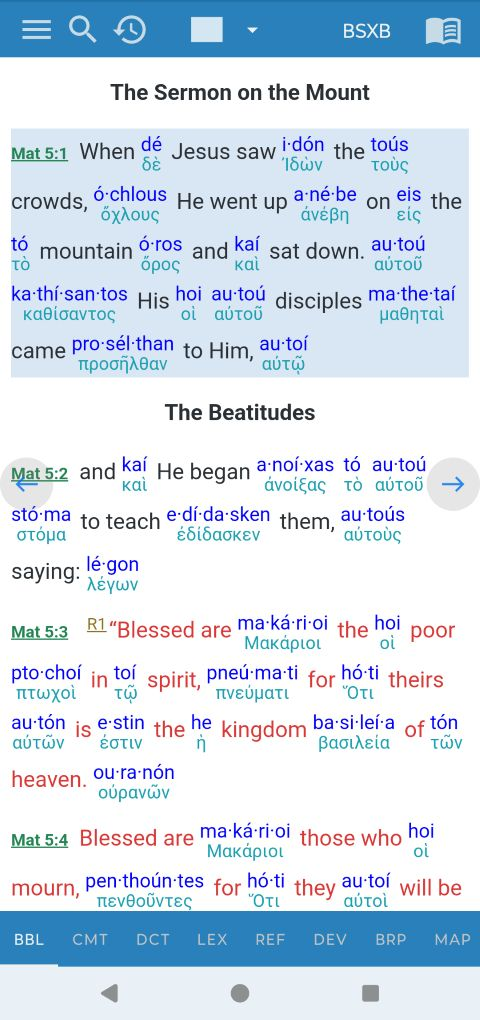
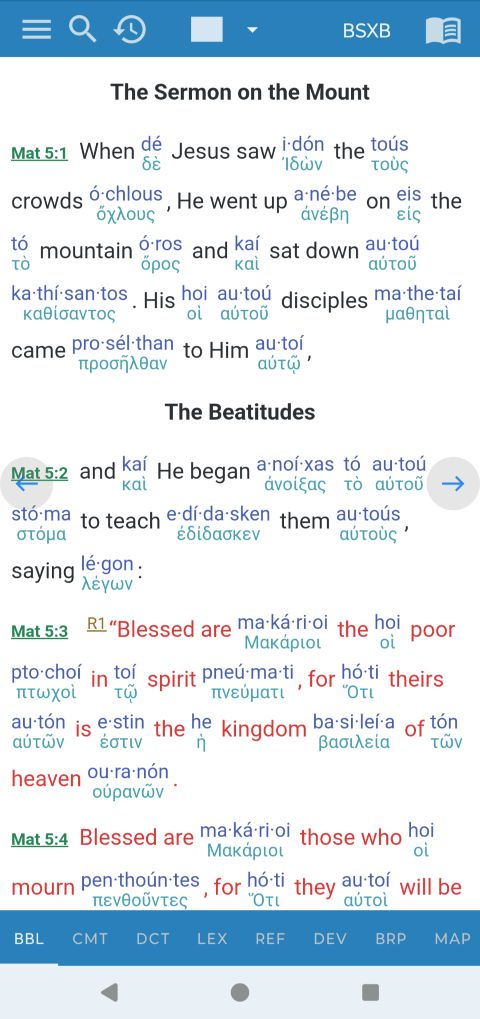
- Update screenshots - Add section on reading plan

diff --git a/docs/INSTALL.md b/docs/INSTALL.md
@@ -13,22 +13,22 @@ It is available for two Bible apps:
 
 **Berean Standard Transliterated Bible (`BSTB`)** — transliteration appears as a superscript after the English word. Tapping the transliterations will open the dictionary entry in whichever lexicon module you have configured.
 
-<img src="assets/bstb_nt_mysword.jpg" width="480" alt="BSTB on MySword"/>
+<img src="assets/bstb_nt_mysword.jpg" width="360" alt="BSTB on MySword"/>
 
 **Berean Standard Translinear Bible  (`BSXB`)** — transliteration and original Hebrew, Aramaic or Greek are stacked vertically beside the English word. The transliterations are links to the lexicon.
 
-<img src="assets/bsxb_ot_mysword.jpg" width="480" alt="BSXB on MySword"/>
+<img src="assets/bsxb_ot_mysword.jpg" width="360" alt="BSXB on MySword"/>
 
 **Berean Standard Reverse Interlinear Bible  (`BSRB`)** - full reverse (English -> Hebrew and Greek) interlinear with original Hebrew, Aramaic and Greek, academic transliteration, Strong's numbers and morphology codes. Tapping the Strong's number will open the word
 in the lexicon. Tapping the morphology code will open the definition in the _Robinson's Morphology Analysis Codes_ dictionary if the RMAC module is installed. 
 
-<img src="assets/bsrb_ot_esword.jpg" width="480"  alt="BSRB on e-Sword"/>
+<img src="assets/bsrb_ot_esword.jpg" width="360"  alt="BSRB on e-Sword"/>
 
 
 ## MySword (Android)
 
 The MySword application has more features and is more polished and configurable than e-Sword. However, it is only available for Android and cannot be installed from the Play Store, which makes it a bit more complicated to install.
-The application is free, but requires a $25 "donation" to unlock all features.
+The application is free, but requires a $25 "donation" to unlock some configuration features.
  
 
 ### Step 1 — Install MySword
@@ -105,7 +105,7 @@ If you want to use the transliterated Bible on iOS, this is your only choice.
 
 Tapping on any of the transliterated words will take you to the lexicon entry for that word.  Which lexicon it takes you to is configurable by you. But first you need to download one or more lexicons. 
 MySword refers to lexicons as "dictionaries", while e-Sword separates "lexicons" (keyed by Strong's numbers) and "dictionaries" (keyed by words like Oxford or Merriam-Webster).
-Most lexicons are for a single language. Try [Brown-Driver-Briggs Hebrew and English Lexicon](https://en.wikipedia.org/wiki/Brown-Driver-Briggs) for Hebrew and [Thayer's Greek-English Lexicon](https://www.bible-discovery.com/dictionary-license-thayer) for Greek. MySword offers a combined "BDB/Thayer's" in one download. 
+Most lexicons are for a single language. But both applications offer a combined Hebrew/Greek lexicon as either "Strongs", "Strongs Lite" or "BDB-Thayer".
 
 ### AHLB - Ancient Hebrew Lexicon of the Bible
 If you want a much richer understanding of the Hebrew language, we highly recommend the [Ancient Hebrew Lexicon of the Bible](https://www.ancient-hebrew.org/ahlb/). It shows the ancient Hebrew pictographs (Paleo Hebrew script) and explains how those pictures form concrete root words and how additional words are built off of that root that share a common theme.
@@ -114,7 +114,19 @@ To get the most out of the AHLB, you will need to read the introduction. On e-Sw
 Installing the AHLB lexicon on e-Sword will make the book's introduction available under the "Reference" section. 
 There is also a short YouTube [introduction video](https://www.youtube.com/watch?v=wc1pV8E3L_Q) if you can't find the intro in your Bible app.
 
+---
 
+## Weekly Torah Portions - Bible in a Year 
+A daily devotional based on the [Messianic Jewish Association of America's](https://mjaa.org/bible-in-a-year/) Bible reading plan.
+- Friday/Saturday weekly Torah/Haftarah readings
+- Sunday/Thursday Bible in a (Hebrew) year readings
+- Includes information on major and minor holidays, new moons and fast days
+- MySword version includes an interactive calendar with both Gregorian and Hebrew dates
+- 5786 Reading Plan downloads:
+  - **[mjaa-5786.bok.mybible](https://github.com/scottrbailey/intralinear-bible/releases/latest/download/mjaa-5786.bok.mybible)**  MySword Devotional (available under Books)
+  - **[mjaa-5786.devi](https://github.com/scottrbailey/intralinear-bible/releases/latest/download/mjaa-5786.devi)**  e-Sword Devotional (available under "Devotional" or "Today")
+<img src="assets/mjaa_cal_mysword.jpg" width="360"  alt="Hebrew calendar on MySword"/>
+<img src="assets/mjaa_day_mysword.jpg" width="360"  alt="Daily devotional for MySword"/>
 ---
 
 ## Troubleshooting
